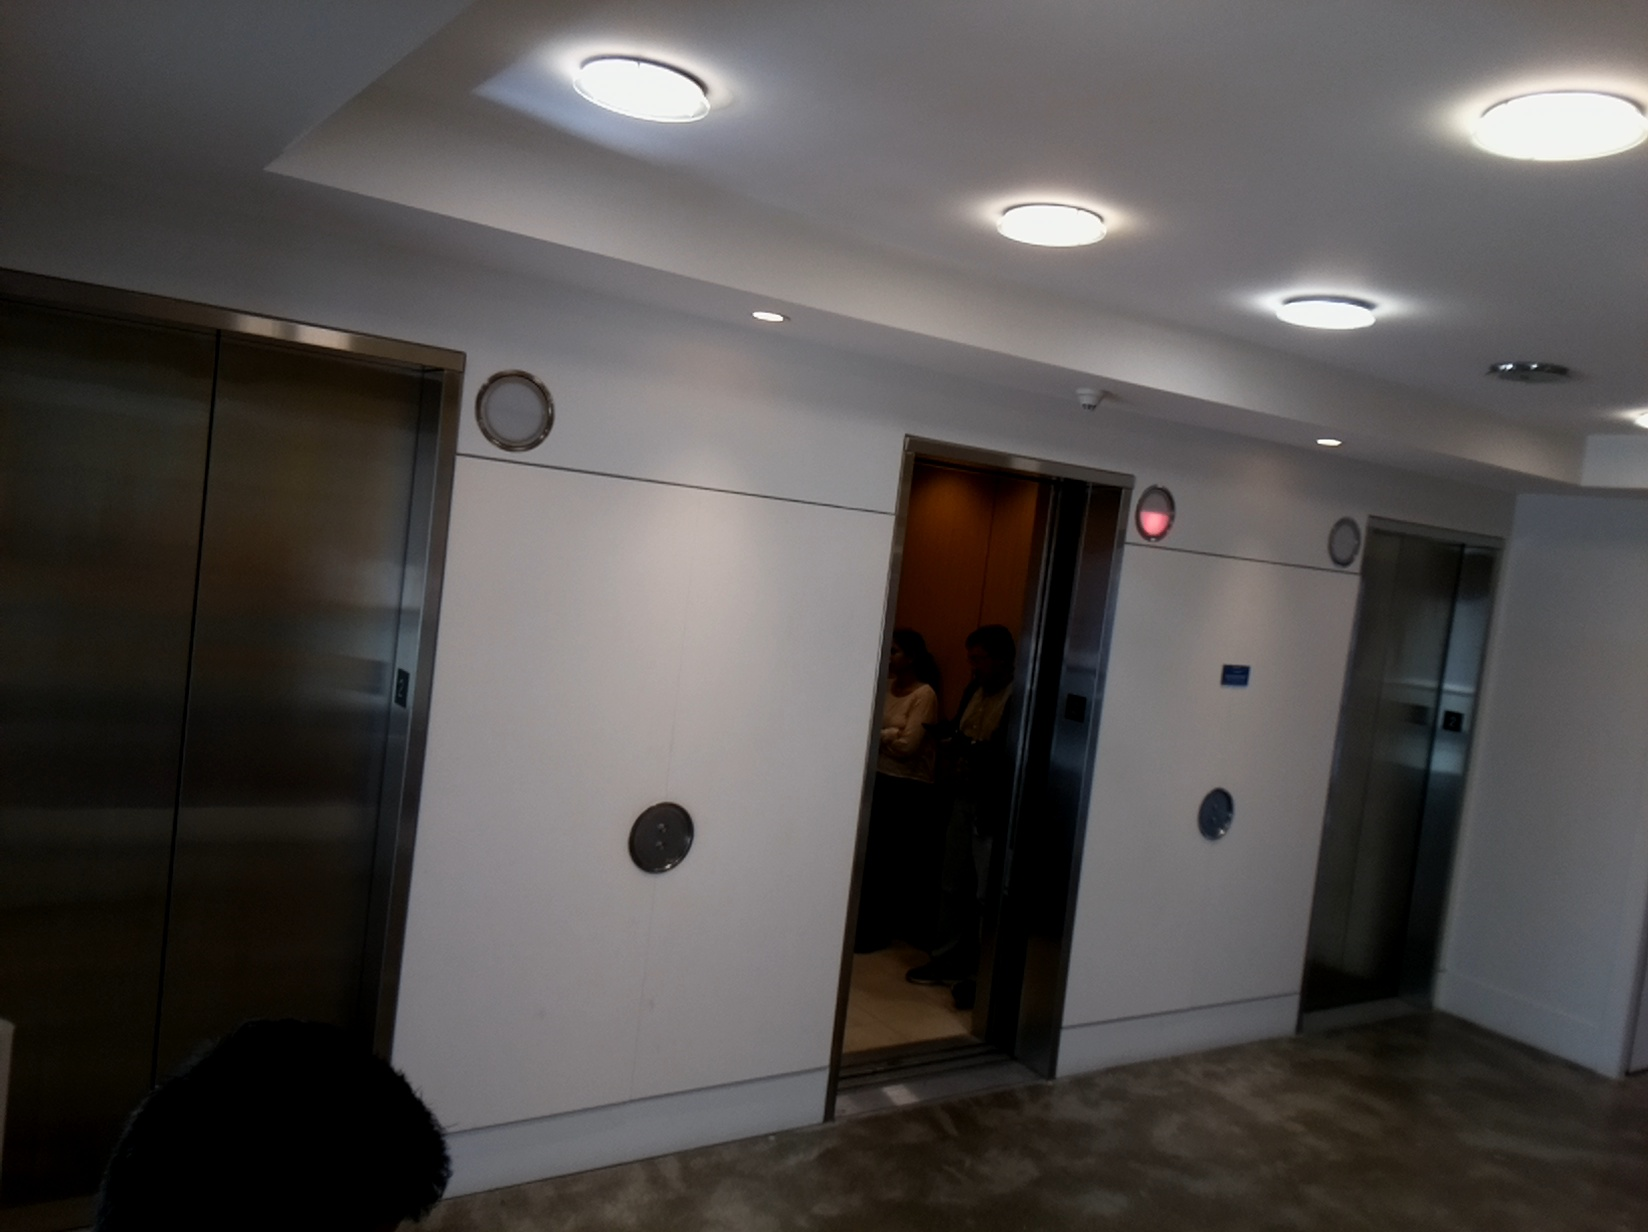
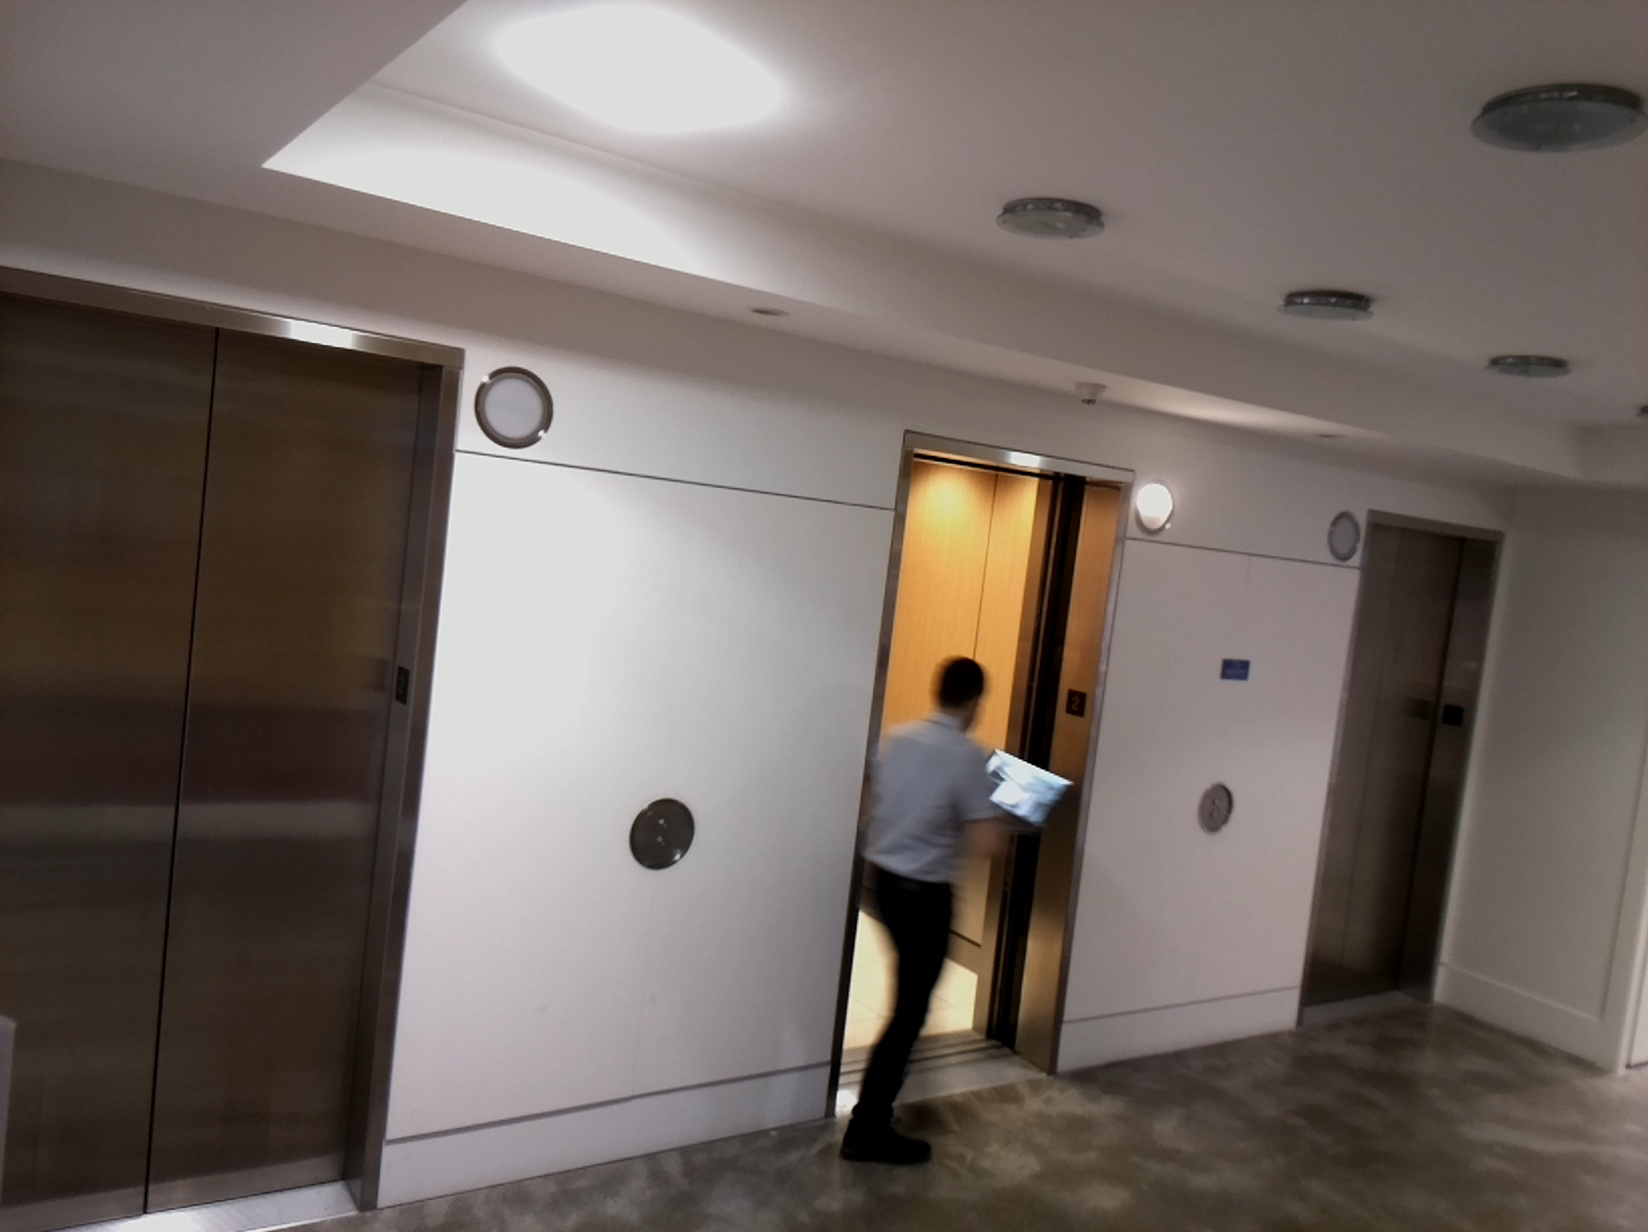
replaced images and adjusted camera brightness to work better and now using color for detection, not huh.

diff --git a/video_proc.py b/video_proc.py
@@ -190,8 +190,8 @@ def check_door_open(door_num, img):
 	#~ openDist = 0
 	#~ closeDist = 0
 	
-	#~ openDist = getColorDist(currR, currG, currB, openC[0], openC[1], openC[2])
-	#~ closeDist = getColorDist(currR, currG, currB, closeC[0], closeC[1], closeC[2],)
+	openDist = getColorDist(currR, currG, currB, openC[0], openC[1], openC[2])
+	closeDist = getColorDist(currR, currG, currB, closeC[0], closeC[1], closeC[2],)
     #~ print 'open dist: {}'.format(openDist)
     #~ print 'close dist: {}'.format(closeDist)
     #~ print 'open dist: {}'.format(openDist)
@@ -272,7 +272,7 @@ if not testMode:
 	time.sleep(2)
 	# Now fix the values
 	#~ camera.shutter_speed = camera.exposure_speed
-	camera.shutter_speed = 2 * 33318
+	camera.shutter_speed = 8 * 33318
 	#~ print "speed: {}".format(camera.shutter_speed)
 	camera.exposure_mode = 'off'
 	#~ g = camera.awb_gains
@@ -348,7 +348,7 @@ for frame in camera.capture_continuous(rawCapture, format="bgr", use_video_port=
 	cv2.putText(image, door3open and "door 3 open" or "door 3 closed",(10,500 + 150), font, 1,door3open and (0,255,0) or (0, 0, 255) ,2,cv2.CV_AA)
  
 	# show the frame
-	#~ cv2.imshow("Frame", image)
+	cv2.imshow("Frame", image)
 	#~ cv2.setMouseCallback("Frame",draw_circle)
  
 	# clear the stream in preparation for the next frame
@@ -356,13 +356,14 @@ for frame in camera.capture_continuous(rawCapture, format="bgr", use_video_port=
 	
 	#~ # CHECK IF SONG NEEDS TO BE PLAYED
 	#~ print "queue:", q.empty()
+	#~ print "Doors ({}, {}, {})".format(door1open, door2open, door3open)
 	if not q.empty():
 		last_badge_timestamp = q.get()
 		badge_read_pending = True
 		print "msg received"
 	#~ print "pending: {}".format(badge_read_pending)
-	if badge_read_pending:
-		print "time since badge scan: {}".format(time.time() - last_badge_timestamp)
+	#~ if badge_read_pending:
+		#~ print "time since badge scan: {}".format(time.time() - last_badge_timestamp)
 	if badge_read_pending and time.time() - last_badge_timestamp > buffer_wait_time:
 		if door1open or door2open or door3open:
 			badge_read_pending = False
